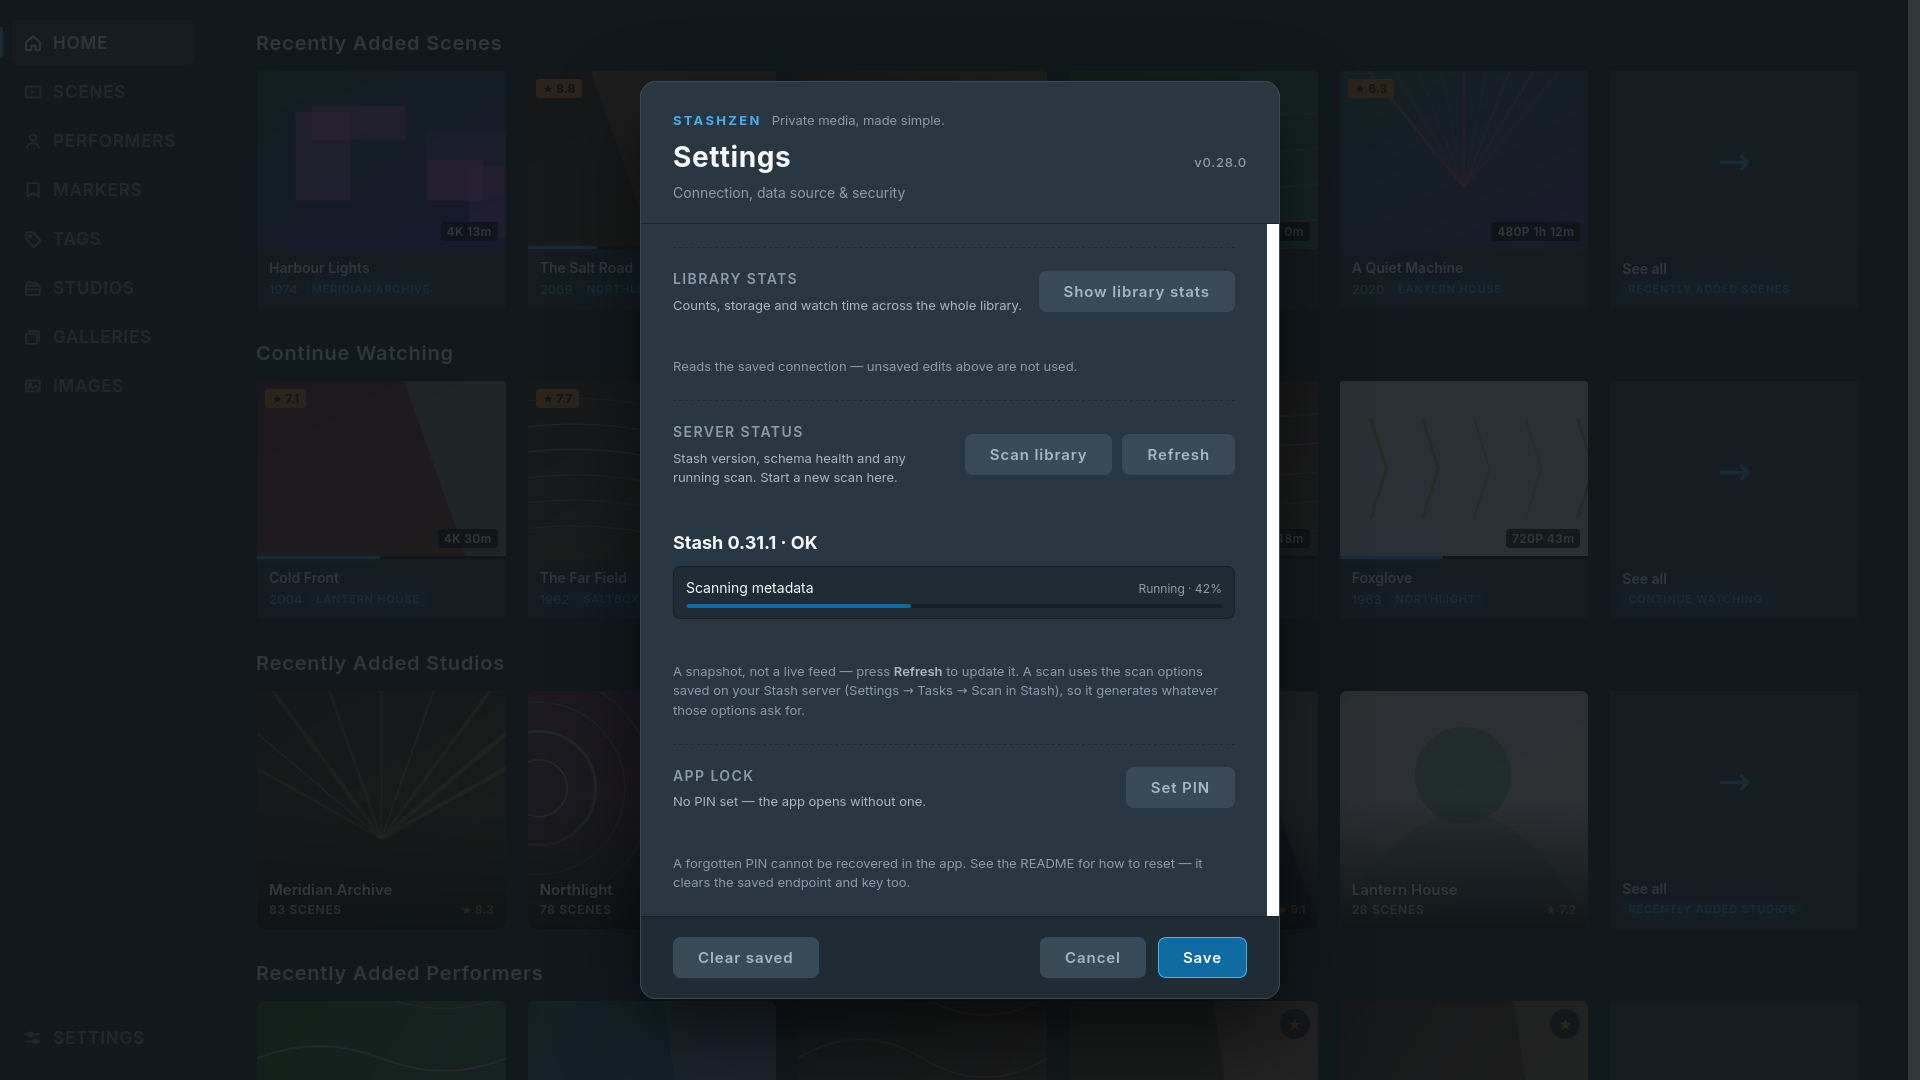
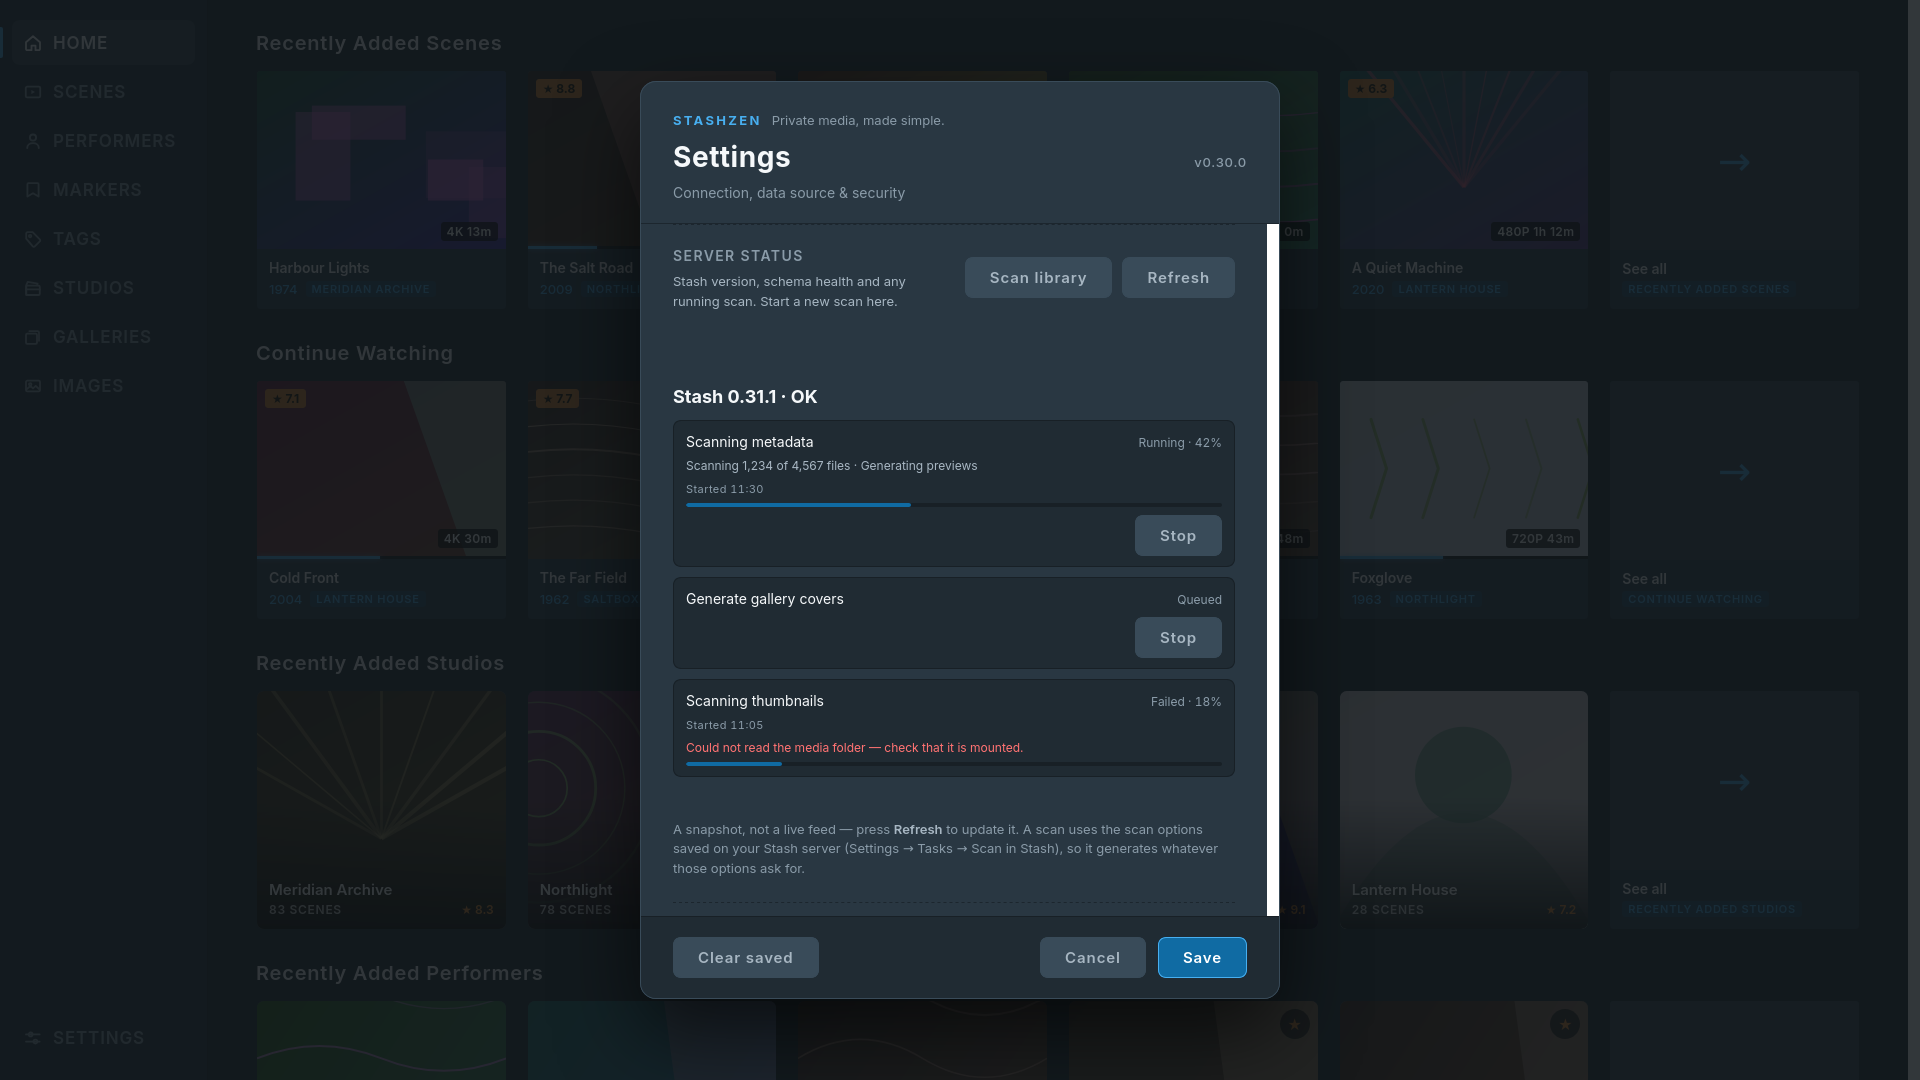
Refresh screenshots and features

Changed region(s): [[0.3438, 0.3361, 0.6562, 0.825], [0.3438, 0.2139, 0.5312, 0.3056], [0.5312, 0.2444, 0.625, 0.275]]

diff --git a/index.html b/index.html
@@ -69,7 +69,8 @@
           <h3>Browse everything</h3>
           <p>Scenes, Performers, Markers, Tags, Studios, Galleries and Images — each with sort,
              search and filters, in grid, carousel, coverflow or list view. Every tab remembers
-             its own view.</p>
+             its own view. Gallery cards show the studio or folder, and tag and studio carousels
+             carry Stash's descriptions and aliases.</p>
         </article>
         <article class="card">
           <h3>Filter builder</h3>
@@ -80,7 +81,19 @@
           <h3>Scene detail</h3>
           <p>Metadata, rating, organised flag and o-count. Resume what you were watching, jump
              straight to a marker, clear progress without erasing watch time, or mark a scene
-             played.</p>
+             played. When the scene belongs to a gallery, one press hands off to it.</p>
+        </article>
+        <article class="card">
+          <h3>Performer pages</h3>
+          <p>Aliases, career, ethnicity, hair, eyes, measurements, links and tags in a single
+             profile, alongside scene, image and gallery counts. Rating and Favourite are
+             editable from the page and written back to Stash.</p>
+        </article>
+        <article class="card">
+          <h3>Image viewer</h3>
+          <p>Open an image full-size and step through the listing with ←/→. Info shows what
+             Stash holds for it — studio, photographer, resolution, size, rating, tags,
+             performers and galleries — and hides the fields that are empty.</p>
         </article>
         <article class="card">
           <h3>Player that remembers</h3>
@@ -88,10 +101,10 @@
              ←/→, and watch play count, resume point and o-count written back to Stash.</p>
         </article>
         <article class="card">
-          <h3>Stats &amp; scans</h3>
+          <h3>Stats &amp; server control</h3>
           <p>Library counts, storage and watch time from Stash's own aggregates — plus the
-             installed Stash version, schema health and the progress of a running scan. Scans can
-             be started from the TV.</p>
+             installed Stash version, schema health, and every queued or running job with its
+             progress, subtasks, start time and errors. Scans start and jobs stop from the TV.</p>
         </article>
         <article class="card">
           <h3>Theme &amp; PIN</h3>
@@ -134,6 +147,18 @@
           <figcaption>Performer page — profile fields and scenes</figcaption>
         </figure>
         <figure>
+          <a class="shot" href="screenshots/galleries.png">
+            <img src="screenshots/galleries.png" alt="Galleries listing with image counts, studios and folders" width="1920" height="1080" loading="lazy">
+          </a>
+          <figcaption>Galleries — image counts with the studio or folder</figcaption>
+        </figure>
+        <figure>
+          <a class="shot" href="screenshots/image-viewer.png">
+            <img src="screenshots/image-viewer.png" alt="Full-size image viewer with the info panel open" width="1920" height="1080" loading="lazy">
+          </a>
+          <figcaption>Image viewer — full-size browsing and the info panel</figcaption>
+        </figure>
+        <figure>
           <a class="shot" href="screenshots/settings-stats.png">
             <img src="screenshots/settings-stats.png" alt="Settings showing library statistics" width="1920" height="1080" loading="lazy">
           </a>
@@ -141,9 +166,9 @@
         </figure>
         <figure>
           <a class="shot" href="screenshots/settings-server.png">
-            <img src="screenshots/settings-server.png" alt="Settings showing Stash server status" width="1920" height="1080" loading="lazy">
+            <img src="screenshots/settings-server.png" alt="Settings showing Stash server jobs and scan progress" width="1920" height="1080" loading="lazy">
           </a>
-          <figcaption>Settings — server status and scan progress</figcaption>
+          <figcaption>Settings — server jobs, scan progress and Stop</figcaption>
         </figure>
       </div>
     </section>
